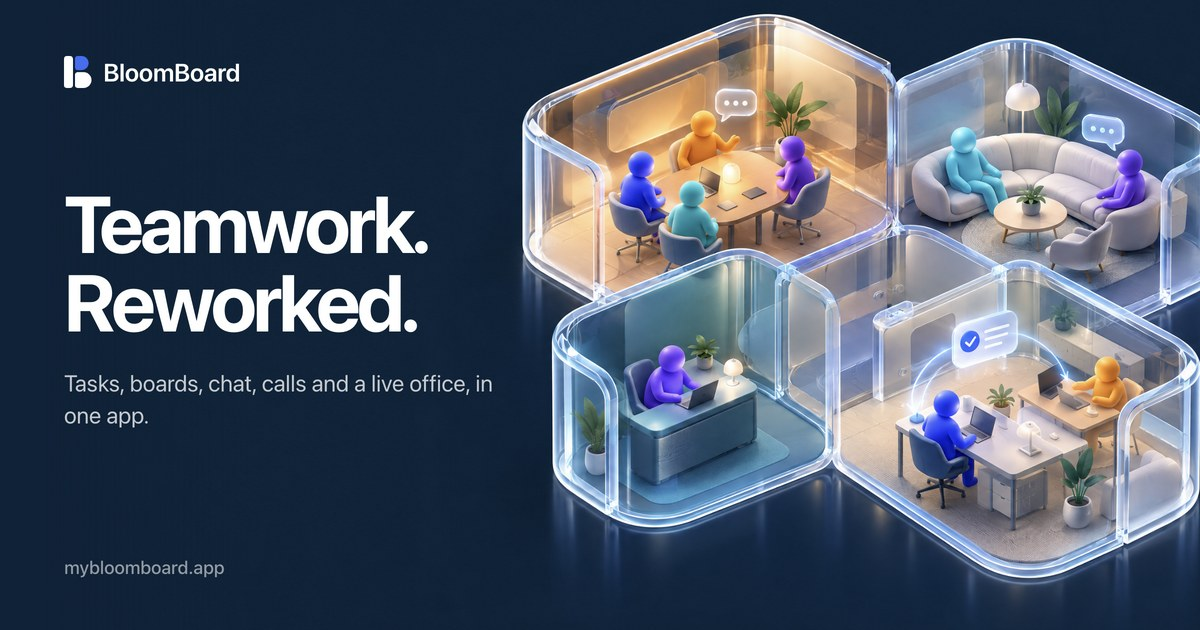
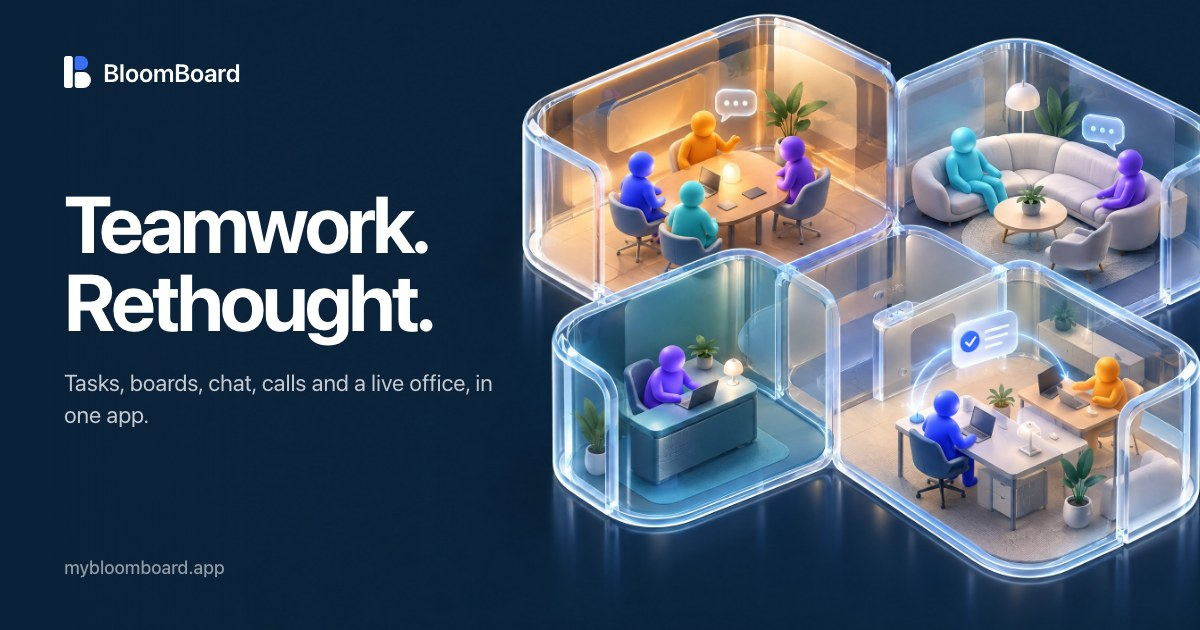
Home: headline is now Rethought, Redesigned, Rebuilt
Same words in the page title, link preview and share image.

diff --git a/src/components/sections/AppPreviewScroll.tsx b/src/components/sections/AppPreviewScroll.tsx
@@ -13,7 +13,7 @@ import { WEB_APP_URL } from "@/components/ui/header-2";
 /**
  * The opening scene, "Product stage": charcoal with a faint dot grid (and Signals running along it,
  * HeroSignals.tsx), no picture; the product is the picture. A big
- * two-line headline where a blue "Re" arrives in front of "worked." (CSS only,
+ * two-line headline where a blue "Re" arrives in front of "thought." (CSS only,
  * globals.css .bb-re), then the live demo lying back slightly. The hero stays put for
  * one swipe per word (HeroWord.tsx, lib/swipe-steps.ts); after the last word the page
  * moves on and the window stands up. Script only sets transforms and opacity, once a
@@ -103,7 +103,7 @@ export default function AppPreviewScroll() {
 
       <div ref={copyRef} className="relative flex flex-col items-center px-4 pb-2 pt-44 text-center sm:px-6 md:pt-48" style={{ willChange: "transform, opacity" }}>
         <h1 className="font-semibold text-white" style={{ fontSize: "clamp(3.2rem, 7vw, 6.8rem)", lineHeight: 0.96, letterSpacing: "-0.052em" }}>
-          <span className="sr-only">Teamwork. Reworked.</span>
+          <span className="sr-only">Teamwork. Rethought.</span>
           <span aria-hidden>
             Teamwork.
             <br />

diff --git a/src/app/layout.tsx b/src/app/layout.tsx
@@ -15,7 +15,7 @@ export const metadata: Metadata = {
   description:
     "Tasks, boards, chat, calls and a live office, in one app. The productivity app that thinks with you. Free to start on Mac, Windows and web.",
   openGraph: {
-    title: "BloomBoard: Teamwork. Reworked.",
+    title: "BloomBoard: Teamwork. Rethought.",
     description:
       "Tasks, boards, chat, calls and a live office, in one app. The productivity app that thinks with you. Free to start on Mac, Windows and web.",
     type: "website",
@@ -23,7 +23,7 @@ export const metadata: Metadata = {
   },
   twitter: {
     card: "summary_large_image",
-    title: "BloomBoard: Teamwork. Reworked.",
+    title: "BloomBoard: Teamwork. Rethought.",
     description:
       "Tasks, boards, chat, calls and a live office, in one app. The productivity app that thinks with you. Free to start on Mac, Windows and web.",
   },

diff --git a/scripts/brand/share-image.html b/scripts/brand/share-image.html
@@ -10,5 +10,5 @@ h1{margin:0;font-size:80px;line-height:.98;font-weight:700;letter-spacing:-.045e
 .foot{position:absolute;left:64px;bottom:52px;font-size:18px;font-weight:500;color:rgba(255,255,255,.55)}
 </style></head><body><img class="bg" src="share-office.jpg">
 <div class="brand"><img src="../../public/brand/mark-on-dark-tight.svg"> BloomBoard</div>
-<div class="copy"><h1>Teamwork.<br>Reworked.</h1><p class="sub">Tasks, boards, chat, calls and a live office, in one app.</p></div>
+<div class="copy"><h1>Teamwork.<br>Rethought.</h1><p class="sub">Tasks, boards, chat, calls and a live office, in one app.</p></div>
 <div class="foot">mybloomboard.app</div></body></html>

diff --git a/src/components/sections/HeroWord.tsx b/src/components/sections/HeroWord.tsx
@@ -5,7 +5,7 @@ import { useEffect, useRef, useState } from "react";
 /* What comes after the blue "Re" in the headline, one per stop of the hero (AppPreviewScroll):
    the letters roll one after another, up and out as the next word rises in, and back down the
    same way when you scroll back. The box eases to each word's own width, so "Re" stays snug. */
-export const HERO_WORDS = ["worked.", "wired.", "thought."];
+export const HERO_WORDS = ["thought.", "designed.", "built."];
 
 export default function HeroWord({ step }: { step: number }) {
   const layers = useRef<(HTMLSpanElement | null)[]>([]);
